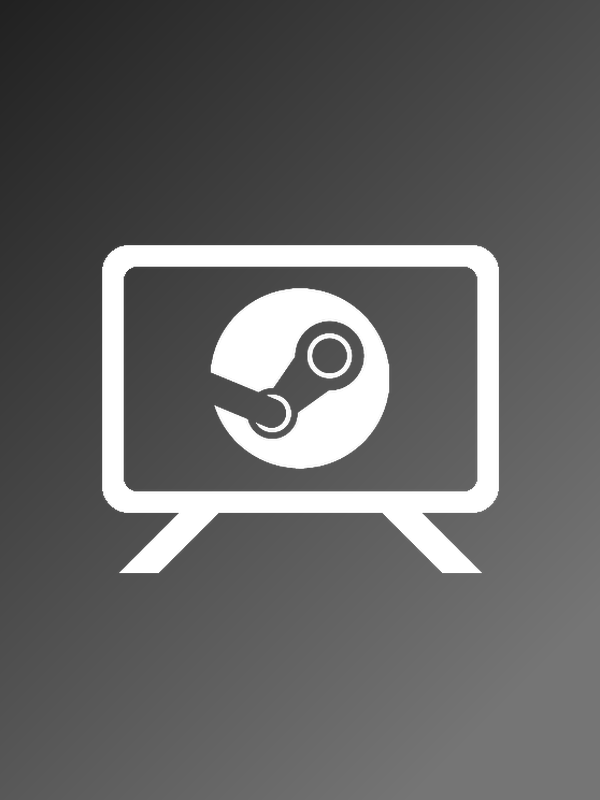
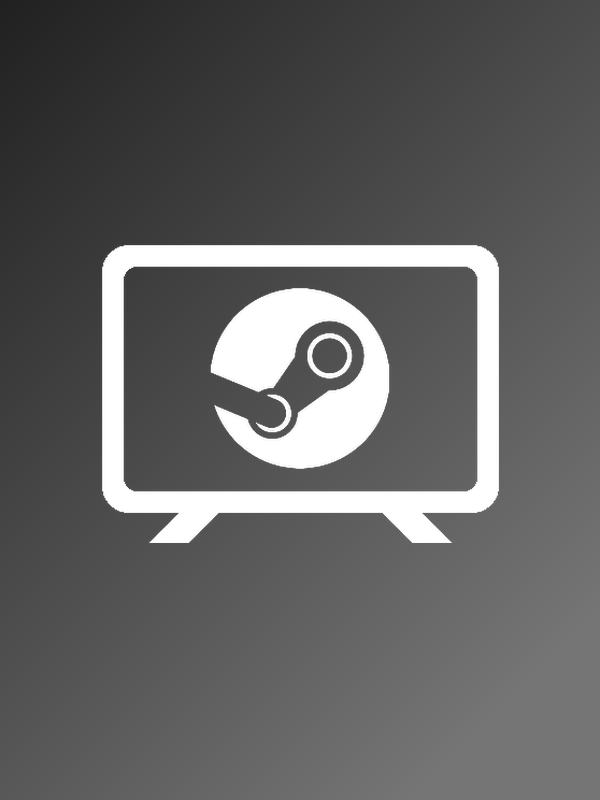
Big Picture: halve the feet
Long enough to lift the screen and read as a television, short enough not to
be a stand.

Changed region(s): [[0.69, 0.6562, 0.81, 0.7188], [0.21, 0.6562, 0.3, 0.7188]]

diff --git a/scripts/make-tiles.py b/scripts/make-tiles.py
@@ -258,10 +258,10 @@ def glyph_tv(inner=None):
     # Two feet, near the corners, and no rail between them: with a bar across
     # the bottom it stopped being a television and became a monitor on a
     # stand, which is the glyph this one exists not to be.
-    d.polygon([(8 * s, 90 * s), (22 * s, 76 * s), (31 * s, 76 * s),
-               (17 * s, 90 * s)], fill=(255, 255, 255, 255))
-    d.polygon([(92 * s, 90 * s), (78 * s, 76 * s), (69 * s, 76 * s),
-               (83 * s, 90 * s)], fill=(255, 255, 255, 255))
+    d.polygon([(15 * s, 83 * s), (22 * s, 76 * s), (31 * s, 76 * s),
+               (24 * s, 83 * s)], fill=(255, 255, 255, 255))
+    d.polygon([(85 * s, 83 * s), (78 * s, 76 * s), (69 * s, 76 * s),
+               (76 * s, 83 * s)], fill=(255, 255, 255, 255))
     if inner is not None:
         # Larger than the monitor's 30: this screen is wider, and a mark that
         # left as much dead glass as the desktop tile does reads as an empty

diff --git a/docs/tile-art.md b/docs/tile-art.md
@@ -94,8 +94,8 @@ as many words, and nothing here implies endorsement.
 Big Picture sits on the same grid as the desktop tiles, so it cannot be the
 monitor glyph with a Steam roundel in it -- that reads as "the desktop, with
 Steam on it", which is a different tile. The television is wider (a 4-unit
-bezel against the monitor's 8, on the same 100 x 100 grid), stands on two
-splayed feet and a bar rather than a pedestal, and carries the mark at 42
+bezel against the monitor's 8, on the same 100 x 100 grid), stands on two short
+splayed feet, with nothing joining them, rather than a pedestal, and carries the mark at 42
 units against the monitor's 30, because a wider screen with the same mark on
 it looks switched off.
 
